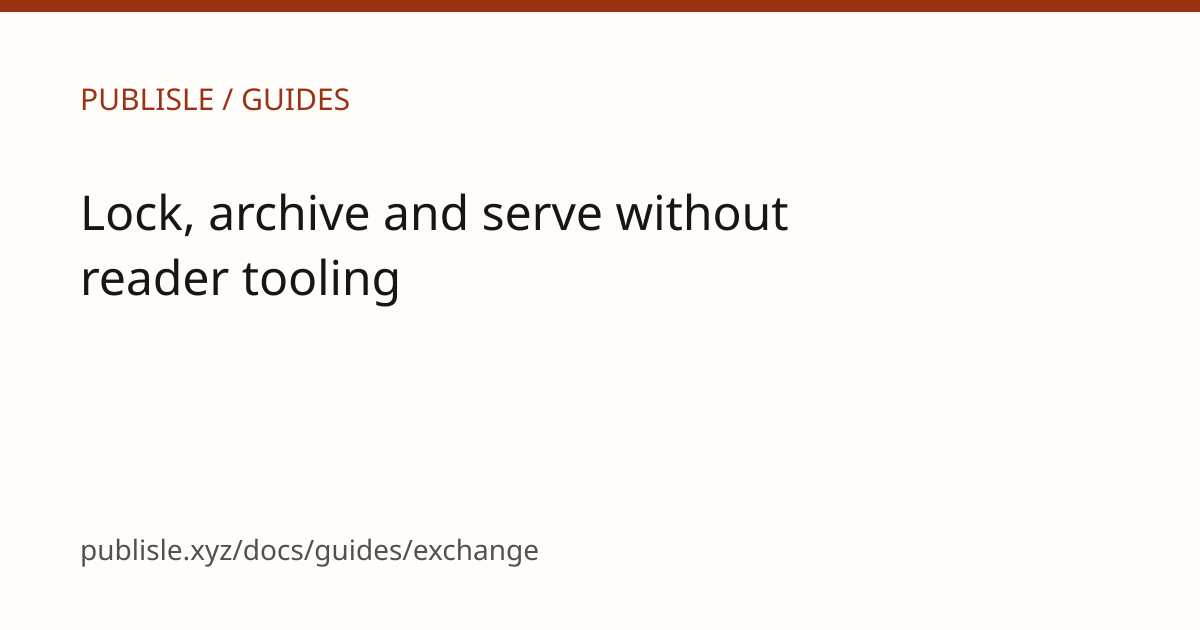
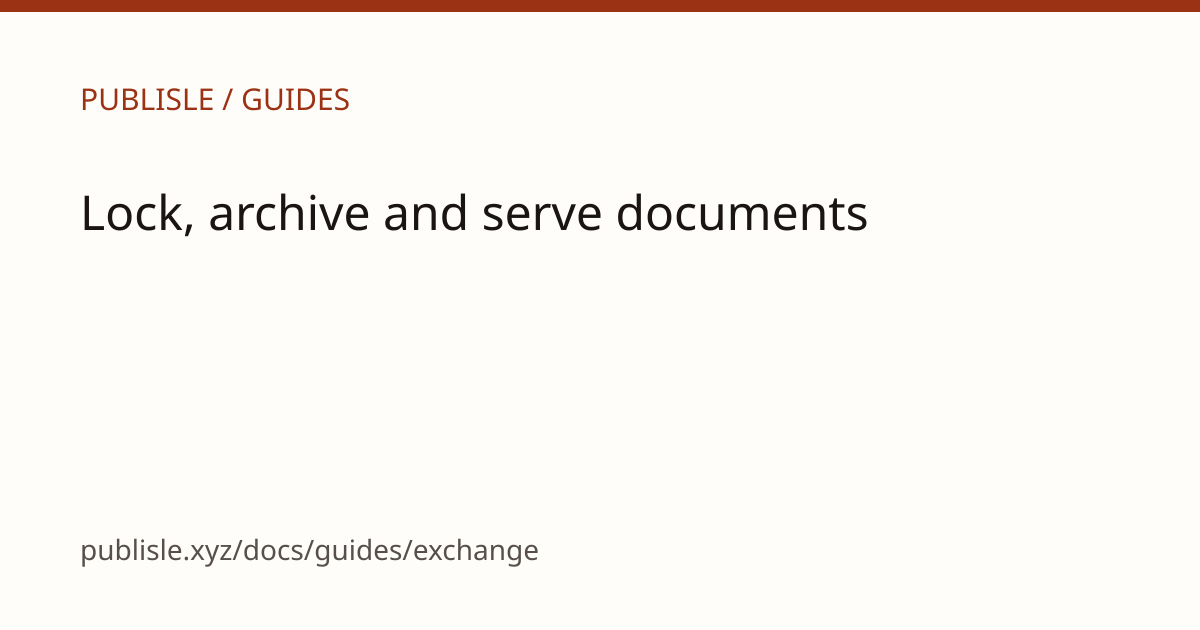
fix(www): shorten documentation titles below 60 characters

Changed region(s): [[0.0617, 0.4222, 0.3392, 0.4825], [0.4933, 0.3016, 0.74, 0.3619]]

diff --git a/sites/www/tests/seo.test.ts b/sites/www/tests/seo.test.ts
@@ -43,6 +43,10 @@ describe("site SEO metadata", () => {
       expect(doc.description.length, doc.id).toBeGreaterThanOrEqual(80);
       expect(doc.description.length, doc.id).toBeLessThanOrEqual(160);
       expect(doc.description, doc.id).not.toMatch(/…$|\.\.\.$/u);
+      // Reader tabs and search results truncate near 60 characters.
+      expect(`${doc.title} · Publisle Docs`.length, doc.id).toBeLessThanOrEqual(
+        60,
+      );
       titles.add(doc.title);
       descriptions.add(doc.description);
       const image = readFileSync(join(site, "public/og/docs", `${doc.id}.png`));

diff --git a/docs/standards/publishing.md b/docs/standards/publishing.md
@@ -1,4 +1,4 @@
-# Publisle Research profile: scholarly and publishing contracts
+# Publisle Research profile
 
 **Status:** Normative for the Publisle Research profile (beta).
 **Profile version:** 1; requires Publisle Core document envelope 1 and supported pinned contract digests.

diff --git a/docs/standards/projections.md b/docs/standards/projections.md
@@ -1,4 +1,4 @@
-# Semantic exports and renderer-free inspection
+# Semantic exports and inspection
 
 Canonical JSON and archival Markdown remain authoritative and lossless. The
 following are distinct, build/save-time projections, not replacement formats:

diff --git a/docs/standards/preparation.md b/docs/standards/preparation.md
@@ -1,4 +1,4 @@
-# Preparation order and normalization boundaries
+# Preparation order and normalization
 
 These groups do not replace existing trusted preparation callbacks or silently enable schema-based defaults.
 

diff --git a/docs/guides/exchange.md b/docs/guides/exchange.md
@@ -1,4 +1,4 @@
-# Lock, archive and serve without reader tooling
+# Lock, archive and serve documents
 
 Work on the authoring/build side, retaining the original input until the conversion is reviewed:
 
